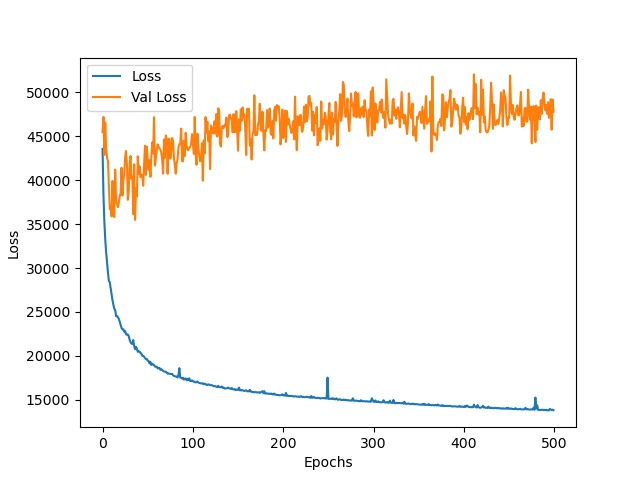
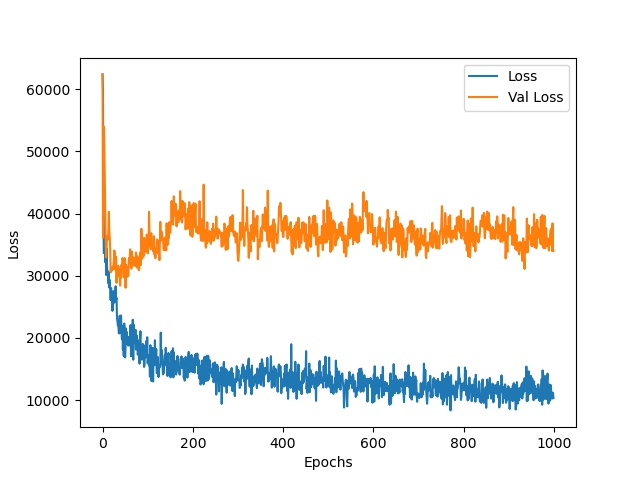
Update

diff --git a/prediction_for_lily_price_and_volume/test.py b/prediction_for_lily_price_and_volume/test.py
@@ -27,24 +27,24 @@ def new_x(predict, test_x, n, x_scaler):
 
 flower_name = ['FS443', 'FS479', 'FS592', 'FS609', 'FS639', 'FS779', 'FS859', 'FS879', 'FS899', 'FS929']
 cloumn = [ 'price_high', 'price_mid', 'price_avg', 'volume']    # 需與訓練時的處理順序相同
-weight_list = ['FS443\epoch370-loss30295.4707-val_loss17190.6680-mae80.60.pth',
-                'FS479\epoch962-loss5045.2241-val_loss12625.3564-mae61.74.pth',
-                'FS592\epoch255-loss5028.7485-val_loss6465.3521-mae48.77.pth',
-                'FS609\epoch499-loss61752.2070-val_loss11638.4756-mae57.40.pth',
-                'FS639\epoch101-loss14279.4297-val_loss10592.9736-mae59.38.pth',
-                'FS779\epoch100-loss36009.6602-val_loss8503.8037-mae52.10.pth',
-                'FS859\epoch87-loss11530.5078-val_loss9995.5928-mae48.90.pth',
-                'FS879\epoch27-loss20902.0957-val_loss18969.6211-mae73.45.pth',
-                'FS899\epoch71-loss61343.3125-val_loss8101.2671-mae49.79.pth',
-                'FS929\epoch18-loss24372.5078-val_loss36938.5195-mae92.60.pth']
+weight_list = [r'FS443\epoch3009-loss5322.0649-val_loss11729.3789-mae61.65.pth',
+                r'FS479\epoch3134-loss10813.8223-val_loss21071.4609-mae68.87.pth',
+                r'FS592\epoch181-loss9081.8652-val_loss5275.4360-mae47.46.pth',
+                r'FS609\epoch599-loss67233.6875-val_loss12579.5771-mae58.82.pth',
+                r'FS639\epoch382-loss10563.7393-val_loss55081.4414-mae72.72.pth',
+                r'FS779\epoch354-loss35233.5977-val_loss18121.4668-mae56.62.pth',
+                r'FS859\epoch13-loss72137.3984-val_loss10614.0059-mae56.64.pth',
+                r'FS879\epoch960-loss6619.4561-val_loss86955.9375-mae96.01.pth',
+                r'FS899\epoch898-loss20553.2910-val_loss34573.2227-mae72.24.pth',
+                r'FS929\epoch898-loss20553.2910-val_loss34573.2227-mae72.24.pth']
 
 n = 10  # 取前n天的資料作為特徵
 f = 10  #花的種類數
 p = 4   #預測的價格數量
 model = model.RNN_modelv1(input_dim=n*p, output_dim=p)
 for flower in flower_name:
-    path_test = os.path.join(r'D:\dataset\lilium_price\test_x\for2020test', flower + '.csv')    #前一年的訓練資料
-    path_weight = os.path.join(r'./weights', weight_list[flower_name.index(flower)]) #權重
+    path_test = os.path.join(r'D:\dataset\lilium_price\test_x\for2020test', flower + '.csv')    #載入測試初始值
+    path_weight = os.path.join(r'.\weights', weight_list[flower_name.index(flower)]) #權重
     sub_path = './results/test_flower_price.csv'    #submit格式
     path_result_csv = os.path.join('./results', flower+'_result.csv')
     header = []
@@ -53,7 +53,7 @@ for flower in flower_name:
     test_df = pd.read_csv(path_test, index_col=None, header=None) 
     test_x = np.array(test_df)
 
-    # # 正歸化
+    # 正歸化
     train_x = pd.read_csv(os.path.join(r'D:\dataset\lilium_price\train_x', flower+'.csv'), encoding='utf-8')   #訓練時的資料用於正規化
     x_scaler = StandardScaler().fit(train_x)
     test_x = x_scaler.transform(test_x)
@@ -63,14 +63,30 @@ for flower in flower_name:
     model.eval()
     date_list = []
     output_list = []
-    sub = pd.read_csv(sub_path, header=1)
-    for i in tqdm(range(len(sub)//f)):
+    sub = pd.read_csv(sub_path, header=0)
+    for i in tqdm(range(len(sub[:130])//f)):
         with torch.no_grad():
             predict = model(torch.unsqueeze(test_x, dim=0))
             predict = predict[0][0]    
             test_x = new_x(predict, test_x, n, x_scaler)
             predict = np.array(predict)
             output_list.append(predict)
+
+    path_test = os.path.join(r'D:\dataset\lilium_price\test_x\for2021test', flower + '.csv')    #載入測試初始值
+    test_df = pd.read_csv(path_test, index_col=None, header=None) 
+    test_x = np.array(test_df)
+    # 正歸化
+    test_x = x_scaler.transform(test_x)
+    test_x = torch.Tensor(test_x)  # to tensor
+    for i in tqdm(range(len(sub[130:])//f)):
+        with torch.no_grad():
+            predict = model(torch.unsqueeze(test_x, dim=0))
+            predict = predict[0][0]    
+            test_x = new_x(predict, test_x, n, x_scaler)
+            predict = np.array(predict)
+            output_list.append(predict)
+
+
     output_arr = np.array(output_list)
     result_df = pd.DataFrame(output_arr)
     # result_df.insert(0,'date',sub['date'])

diff --git a/prediction_for_lily_price_and_volume/train.py b/prediction_for_lily_price_and_volume/train.py
@@ -29,10 +29,10 @@ else:
 n = 10  # 取前n天的資料作為特徵
 
 #載入資料集
-train_x = pd.read_csv(r'D:\dataset\lilium_price\train_x\FS479.csv', encoding='utf-8')
-train_y = pd.read_csv(r'D:\dataset\lilium_price\train_y\FS479.csv', encoding='utf-8')
-val_x = pd.read_csv(r'D:\dataset\lilium_price\val_x\FS479.csv', encoding='utf-8')
-val_y = pd.read_csv(r'D:\dataset\lilium_price\val_y\FS479.csv', encoding='utf-8')
+train_x = pd.read_csv(r'D:\dataset\lilium_price\train_x\FS443.csv', encoding='utf-8')
+train_y = pd.read_csv(r'D:\dataset\lilium_price\train_y\FS443.csv', encoding='utf-8')
+val_x = pd.read_csv(r'D:\dataset\lilium_price\val_x\FS443.csv', encoding='utf-8')
+val_y = pd.read_csv(r'D:\dataset\lilium_price\val_y\FS443.csv', encoding='utf-8')
 
 #正規化
 x_scaler = StandardScaler().fit(train_x)
@@ -52,17 +52,17 @@ valset = utils.Setloader(val_x, val_y)
 batch_size = train_x.shape[0]
 val_batch_size = val_x.shape[0]
 LR = 0.05
-num_epochs = 500
+num_epochs = 1000
 
 model = model.RNN_modelv1(input_dim=train_x.shape[1], output_dim=train_y.shape[1]).to(device)
-model.load_state_dict(torch.load(r'./weights/FS443/epoch281-loss19032.6270-val_loss12422.3350-mae69.93.pth'))    #載入預訓練權重
+# model.load_state_dict(torch.load(r'./weights/FS899/epoch898-loss20553.2910-val_loss34573.2227-mae72.24.pth'))    #載入預訓練權重
 # 選擇優化器與損失函數
 optimizer = torch.optim.AdamW(model.parameters(), lr=LR) 
 criterion = nn.MSELoss().to(device)
 # scheduler = lr_scheduler.StepLR(optimizer, step_size=100, gamma=0.9)
 scheduler = lr_scheduler.CosineAnnealingLR(optimizer,
-                                               T_max=100,
-                                               eta_min=1e-6,
+                                               T_max=num_epochs,
+                                               eta_min=0.001,
                                                last_epoch=-1)
 
 trainloader = DataLoader(trainset, batch_size=batch_size, shuffle=True)
@@ -123,7 +123,7 @@ for epoch in range(num_epochs):
                         })
                 pbar.update(1)
     lr_list.append(scheduler.get_last_lr())
-    scheduler.step()
+    # scheduler.step()
     val_loss = total_val_loss/len(valloader.dataset)
     mae = total_mae/len(valloader.dataset)
     val_loss_list.append(val_loss)

diff --git a/prediction_for_lily_price_and_volume/net/model.py b/prediction_for_lily_price_and_volume/net/model.py
@@ -6,12 +6,12 @@ class RNN_modelv1(nn.Module):
 
         self.rnn1 = nn.LSTM(
             input_size=input_dim,
-            hidden_size=64,
+            hidden_size=128,
             num_layers=2,
             batch_first=True,
-            bidirectional=True
+            bidirectional=False
         )
-        self.drop = nn.Dropout(0.1)
+        self.drop = nn.Dropout(0.2)
         self.out = nn.Sequential(
             nn.Linear(128, output_dim)
         )
@@ -30,8 +30,8 @@ class RNN_modelv2(nn.Module):
 
         self.rnn1 = nn.LSTM(
             input_size=input_dim,
-            hidden_size=2048,
-            num_layers=3,
+            hidden_size=64,
+            num_layers=2,
             batch_first=True
         )
         # self.rnn2 = nn.LSTM(
@@ -43,7 +43,7 @@ class RNN_modelv2(nn.Module):
         
         # self.drop = nn.Dropout(0.5)
         self.out = nn.Sequential(
-            nn.Linear(2048, output_dim)
+            nn.Linear(128, output_dim)
         )
 
     def forward(self, x):
@@ -55,3 +55,19 @@ class RNN_modelv2(nn.Module):
         # out, (h_n, h_c) = self.rnn2(out, None)        
         out = self.out(out)
         return out
+
+class RNN(nn.Module):   #blacky
+    def __init__(self, input_size, output_size):
+        super(RNN, self).__init__()
+        self.rnn = nn.LSTM(input_size=input_size,
+                           hidden_size=input_size * 2,
+                           num_layers=2,
+                           batch_first=True,
+                           dropout=0.5,
+                           bidirectional=True)
+        self.linear = nn.Sequential(nn.Linear(input_size * 4, output_size))
+
+    def forward(self, inputs):
+        outputs, (h_n, c_n) = self.rnn(inputs)
+        outputs = self.linear(outputs)
+        return outputs
